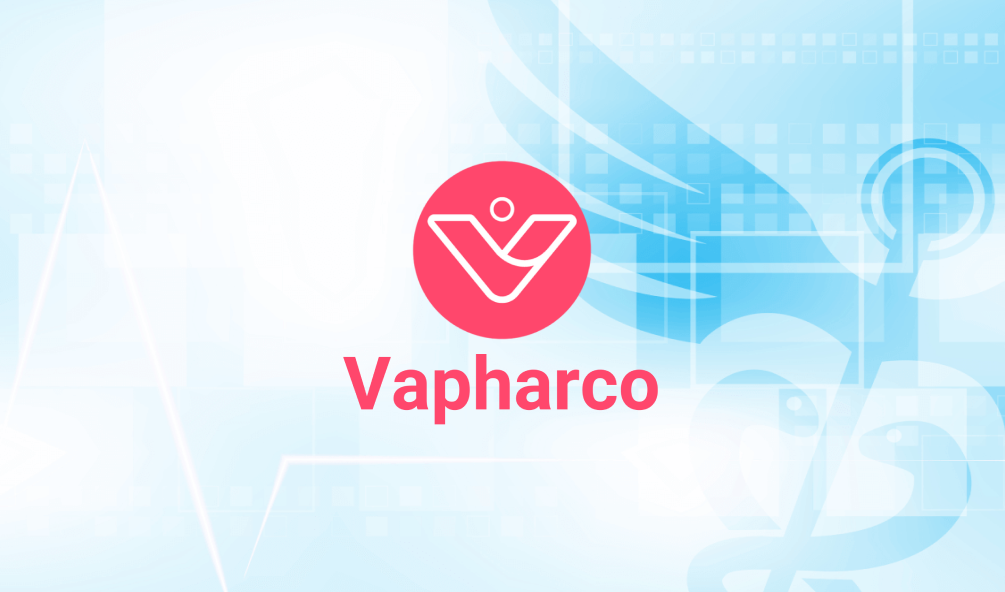
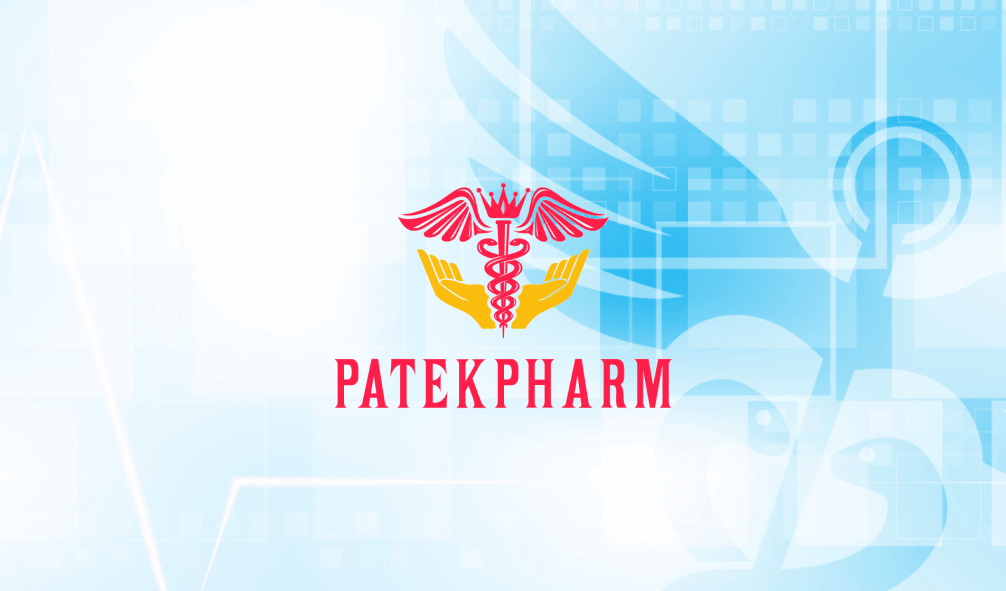
update: vapharco to patepharm

diff --git a/app/[lang]/service/components/service-content.tsx b/app/[lang]/service/components/service-content.tsx
@@ -22,16 +22,16 @@ const ServiceContent = () => {
   return (
     <div className="xl:col-span-2 order-1 xl:order-2 leading-[28px]">
       <p className="text-[#666666]">
-        In the Vietnamese market, Vapharco Pharmaceutical Trading Company
-        Limited is a prominent importer and distributor of pharmaceuticals. In
-        addition to having a broad network that encompasses all 63 provinces and
-        cities, we also have deep industry knowledge and a strong commitment to
-        quality. Our primary goal is to provide thorough pharmaceutical business
-        development services that meet the various needs of our partners and
-        clients. We offer strategic solutions that are intended to drive growth
-        and support success in the pharmaceutical industry, whether you are a
-        pharmaceutical manufacturer looking to expand your presence in Vietnam
-        or a healthcare institution in need of a trusted drug supplier.
+        In the Singapore and Southeast Asia market, Patekpharm Pte. Ltd. is a
+        prominent importer and distributor of pharmaceuticals. In addition to
+        having a broad network, we also have deep industry knowledge and a
+        strong commitment to quality. Our primary goal is to provide thorough
+        pharmaceutical business development services that meet the various needs
+        of our partners and clients. We offer strategic solutions that are
+        intended to drive growth and support success in the pharmaceutical
+        industry, whether you are a pharmaceutical manufacturer looking to
+        expand your presence in Vietnam or a healthcare institution in need of a
+        trusted drug supplier.
       </p>
       <div id="service_1" className="pt-8 text-[20px] font-bold">
         Market Analysis and Entry Strategy
@@ -94,7 +94,7 @@ const ServiceContent = () => {
       />
       <div className="text-[#666666]">
         <p className="mt-5">
-          At Vapharco, our area of expertise is finding and assessing strategic
+          At Patekpharm, our area of expertise is finding and assessing strategic
           business partners in the pharmaceutical and healthcare sectors. Our
           all-encompassing strategy includes the following crucial elements:
         </p>
@@ -168,7 +168,7 @@ const ServiceContent = () => {
         <p className="mt-5">
           Ensuring compliance and obtaining product registration are essential
           steps towards market entry and long-term success in the constantly
-          changing world of pharmaceutical laws. At Vapharco, we provide
+          changing world of pharmaceutical laws. At Patekpharm, we provide
           all-inclusive services intended to handle regulatory mazes and
           expedite the pharmaceutical product's route to market.
         </p>
@@ -223,7 +223,7 @@ const ServiceContent = () => {
         </p>
         <p className="mt-2">
           Let us be your dependable partner as you navigate product registration
-          and regulatory compliance in the Vietnamese pharmacy business to
+          and regulatory compliance in the Southeast Asia pharmacy business to
           Unlock Your Market Potential. You may realize the full commercial
           potential of your product and succeed in regulatory compliance with
           our knowledge and committed help.
@@ -242,7 +242,7 @@ const ServiceContent = () => {
       />
       <div className="text-[#666666]">
         <p className="mt-5">
-          At Vapharco, we are experts in developing targeted advertising
+          At Patekpharm, we are experts in developing targeted advertising
           campaigns and brand-building plans that increase consumer awareness
           and stimulate demand for pharmaceuticals. The following are the main
           tasks that are included in our extensive services:
@@ -318,7 +318,7 @@ const ServiceContent = () => {
           For the pharmaceutical sector to guarantee on-time delivery, product
           availability, and effective distribution, supply chain operations and
           logistical systems must be optimized. Our area of expertise at
-          Vapharco is creating and executing strategic supply chain solutions
+          Patekpharm is creating and executing strategic supply chain solutions
           made especially for pharmaceutical goods.
         </p>
         <p className="mt-3">Important Services Provided:</p>
@@ -362,7 +362,7 @@ const ServiceContent = () => {
           </li>
         </ul>
         <p className="mt-3">
-          At Vapharco, we provide cutting-edge supply chain and logistics
+          At Patekpharm, we provide cutting-edge supply chain and logistics
           solutions for the pharmaceutical sector by fusing real-world
           experience with extensive industry knowledge. Our commitment to
           quality, adherence to regulations, and customer-focused methodology

diff --git a/app/[lang]/constants/about.ts b/app/[lang]/constants/about.ts
@@ -9,7 +9,7 @@ export const aboutServe = [
     img: ImgAbout2,
     title: "Caring for Every Health Journey",
     contents: [
-      "We cover 550 pharmacies, clinics and hospitals  in Vietnam, coordinating with distributors and reps to ensure timely delivery and optimal product placement.",
+      "We cover a wide range of pharmacies, clinics and hospitals in the Southeast Asia market, coordinating with distributors and reps to ensure timely delivery and optimal product placement.",
       "We ensure safe delivery of medicines, meeting all legal and drug-specific requirements to support the healthcare system.",
     ],
   },
@@ -41,36 +41,36 @@ export const aboutTimeline = [
     time: "2005",
     title: "Establishment of the Company",
     content:
-      "Vapharco began its adventure in the pharmaceutical industry in 2005 when it was created by a committed group of fewer than ten people.",
+      "Patekpharm began its adventure in the pharmaceutical industry in 2005 when it was created by a committed group of fewer than ten people.",
   },
   {
     time: "2006 - 2008",
     title: "Northern & Central Market Expansion",
     content:
-      "Vapharco effectively entered and served the Northern and Central markets of Vietnam as it continued to grow its activities.",
+      "Patekpharm effectively entered and served the Northern and Central markets of Vietnam as it continued to grow its activities.",
   },
   {
     time: "2009 - 2012",
     title: "Increase in Workforce",
     content:
-      "Vapharco had grown significantly, employing over 100 people, a reflection of the company's growing capabilities and market presence.",
+      "Patekpharm had grown significantly, employing over 100 people, a reflection of the company's growing capabilities and market presence.",
   },
   {
     time: "2013 - 2017",
     title: "Central Highlands expansion",
     content:
-      "In order to increase its reach, Vapharco entered the provinces of the Central Highlands between 2013 and 2017, hiring 180 people.",
+      "In order to increase its reach, Patekpharm entered the provinces of the Central Highlands between 2013 and 2017, hiring 180 people.",
   },
   {
     time: "2018",
     title: "Creation of Affiliated Businesses",
     content:
-      "Vapharco established subsidiaries in Ho Chi Minh City to expand into the Eastern and Southwest regions, focusing on the Ho Chi Minh City market and growing its workforce to over 250 employees.",
+      "Patekpharm established subsidiaries in Ho Chi Minh City to expand into the Eastern and Southwest regions, focusing on the Ho Chi Minh City market and growing its workforce to over 250 employees.",
   },
   {
     time: "2018 - now",
     title: "National Network",
     content:
-      "Vapharco operates from its Hanoi headquarters and Ho Chi Minh City subsidiaries, extending its market reach with strategic partnerships and secondary distributors across all 63 provinces and cities nationwide.",
+      "Patekpharm operates from its Hanoi headquarters and Ho Chi Minh City subsidiaries, extending its market reach with strategic partnerships and secondary distributors across all 63 provinces and cities nationwide.",
   },
 ];

diff --git a/app/[lang]/about/components/about-us.tsx b/app/[lang]/about/components/about-us.tsx
@@ -31,7 +31,7 @@ const AboutUsDetail = () => {
           <div className="grid md:grid-cols-2 gap-3 mt-3 md:mt-8 items-center text-[#666666]">
             <div>
               <p>
-                At Vapharco, our goal is to promote pleasure and health
+                At Patekpharm, our goal is to promote pleasure and health
                 throughout the world by developing innovative and dependable
                 pharmaceutical goods.
               </p>
@@ -64,7 +64,7 @@ const AboutUsDetail = () => {
           </p>
           <div className="mt-5 md:mt-10 text-[20px] font-bold">Our Vision</div>
           <div className="md:mt-3 italic">
-            Here at Vapharco, we see a future driven by well-defined goals and
+            Here at Patekpharm, we see a future driven by well-defined goals and
             constructive influence
           </div>
           <div className="grid md:grid-cols-2 gap-3 mt-5 md:mt-8 text-[#666666]">
@@ -180,14 +180,14 @@ const AboutUsDetail = () => {
               Prospects for the Future: Growth Into Southeast Asia
             </p>
             <p>
-              With an eye on 2024, Vapharco intends to aggressively grow its
+              With an eye on 2024, Patekpharm intends to aggressively grow its
               market share in Southeast Asian nations like Singapore, Thailand,
               Indonesia, Laos, and Cambodia. The company's dedication to ongoing
               growth and regional expansion in the pharmaceutical industry is
               reflected in its strategic strategy.
             </p>
             <p className="mt-8">
-              By reaching these important benchmarks, Vapharco has proven its
+              By reaching these important benchmarks, Patekpharm has proven its
               unwavering dedication to development, market expansion, and
               providing high-quality pharmaceutical goods and services in
               Vietnam and beyond.

diff --git a/app/[lang]/components/footer.tsx b/app/[lang]/components/footer.tsx
@@ -1,6 +1,5 @@
 "use client";
 import Image from "next/image";
-import Logo from "../../../public/Images/logo.png";
 import {
   IconCopyright,
   IconList,
@@ -18,10 +17,10 @@ const FooterComponent = () => {
           <div className="px-3 lg:col-span-4">
             <Link href={"/"}>
               <Image
-                src={Logo}
-                className="w-[120px] lg:w-[180px] h-[40px] lg:h-[60px]"
-                width={150}
-                height={30}
+                src={"/Images/logo.png"}
+                className="w-[80px] lg:w-[100px] h-[50px] lg:h-[60px]"
+                width={640}
+                height={426}
                 priority
                 alt="logo"
               />
@@ -41,8 +40,7 @@ const FooterComponent = () => {
               <div className="min-w-[18px]">
                 <IconLocation />
               </div>
-              Shophouse 2B, 1st floor Green Pearl Mega Mall, No 378, Minh Khai
-              Road, Hai Ba Trung District, Hanoi, Vietnam
+              11 BEACH ROAD #03-01 CRASCO BUILDING SINGAPORE (189675)
             </div>
             <div className="flex gap-1 mt-3">
               <div className="min-w-[18px]">
@@ -54,7 +52,7 @@ const FooterComponent = () => {
               <div className="min-w-[18px]">
                 <IconMail />
               </div>
-              info@vapharco.com
+              info@patekpharm.com
             </div>
           </div>
           <div className="px-3 lg:col-span-2">
@@ -93,7 +91,7 @@ const FooterComponent = () => {
               <IconCopyright />
               2024, All Rights Reserved by
               <span>
-                <a href="mailto:info@vapharco.com">@Vapharco</a>
+                <a href="mailto:info@patekpharm.com">@Patekpharm</a>
               </span>
             </div>
             {/* <div className="flex gap-2 items-center justify-center sm:justify-start text-white">

diff --git a/app/[lang]/components/about.tsx b/app/[lang]/components/about.tsx
@@ -30,13 +30,16 @@ const AboutUs = () => {
           About Us
         </div>
         <div className="max-w-[600px] text-[24px] sm:text-[30px] xl:text-[44px] text-center md:text-left font-bold text-[#002856]">
-          Distributing Pharmaceuticals since 2005
+          Welcome to PatekPharm
         </div>
         <p className="leading-[28px] text-[#666666]">
-          We've been dedicated to distributing pharmaceuticals with precision
-          and reliability. Our longstanding commitment ensures that individuals
-          and healthcare providers alike have access to the medications they
-          need, delivered with care and efficiency.
+          A pioneering pharmaceutical trading company based in Singapore,
+          dedicated to serving the vibrant and diverse markets of Southeast
+          Asia, including Singapore, Vietnam, Thailand, Indonesia, and Malaysia.
+          Established with a vision to enhance the distribution of
+          pharmaceuticals with precision and reliability, we are committed to
+          being a trusted partner in the region's medical and pharmaceutical
+          sectors.
         </p>
         <div>
           <div className="grid md:flex 2xl:grid md:grid-cols-3 gap-3 md:gap-0 mt-3 xl:mt-6 md:justify-between">

diff --git a/app/[lang]/components/header.tsx b/app/[lang]/components/header.tsx
@@ -2,8 +2,6 @@
 import Image from "next/image";
 import phoneNumber from "../../../public/Images/phone_numb.svg";
 import openTime from "../../../public/Images/open_time.svg";
-import language from "../../../public/Images/language.svg";
-import logo from "../../../public/Images/logo.png";
 import Link from "next/link";
 import { listSocial, navigations, navigationsObj } from "../constants/header";
 import { useEffect, useMemo, useRef, useState } from "react";
@@ -188,10 +186,10 @@ const HeaderComponent = ({ dictionary }: any) => {
             <div className="flex container mx-auto px-5 py-3 items-center justify-between">
               <Link href={"/"}>
                 <Image
-                  src={logo}
-                  className="w-[120px] lg:w-[150px] h-[40px] lg:h-[50px]"
-                  width={157}
-                  height={36}
+                  src={"/Images/logo.png"}
+                  className="w-[80px] lg:w-[100px] h-[50px] lg:h-[60px]"
+                  width={640}
+                  height={426}
                   priority
                   alt="logo"
                 />

diff --git a/app/[lang]/layout.tsx b/app/[lang]/layout.tsx
@@ -33,16 +33,16 @@ export default async function Root({
 }
 
 export const metadata = {
-  title: "Vapharco",
+  title: "Patekpharm",
   openGraph: {
-    title: "Vapharco",
+    title: "Patekpharm",
     description:
       "Patekpharm Pte. Ltd is Your Reliable Distributor for Essential Medications. Ensuring precision and efficiency in pharmaceutical distribution for individuals and healthcare providers",
-    url: "https://vapharco.com",
-    siteName: "Vapharco",
+    url: "https://patekpharm.com",
+    siteName: "Patekpharm",
     images: [
       {
-        url: "https://vapharco.com/Images/thumbnail.png",
+        url: "https://patekpharm.com/Images/thumbnail.png",
       },
     ],
     locale: "en_US",

diff --git a/app/[lang]/page.tsx b/app/[lang]/page.tsx
@@ -20,11 +20,11 @@ export default async function IndexPage() {
       <BannerComponent />
       <AboutUs />
       <ServicesComponent />
-      <NumberExpComponent />
-      <PartnerComponent />
+      {/* <NumberExpComponent />
+      <PartnerComponent /> */}
       <GalleryExhibition />
       <Testimonials />
-      <BlogNews />
+      {/* <BlogNews /> */}
       <ContactComponent />
       <SubScribeComponent />
       {/* <SimpleMap mapKey={googleMapKey} /> */}

diff --git a/app/[lang]/constants/testimonials.ts b/app/[lang]/constants/testimonials.ts
@@ -9,7 +9,7 @@ export const testimonials = [
         img: testimonial1,
         name: "Jim Morison",
         job: "Director",
-        comment: "“Thanks to PharmaBridge Solutions, we navigated complex export regulations effortlessly and expanded our market reach seamlessly.”"
+        comment: "“Thanks to PatekPharm, we navigated complex export regulations effortlessly and expanded our market reach seamlessly.”"
     },
     {
         img: testimonial2,
